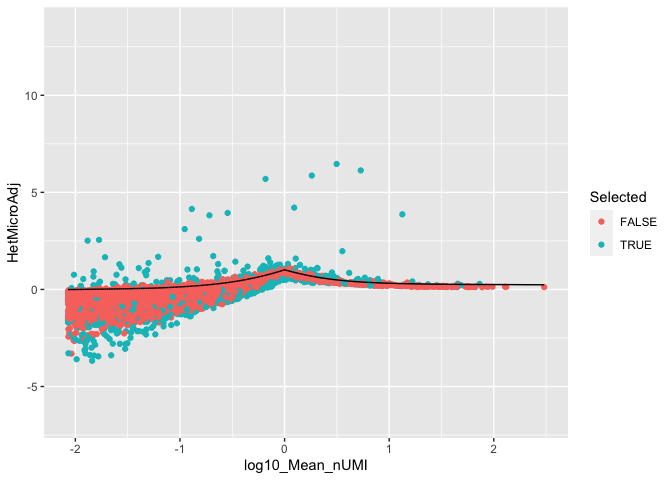
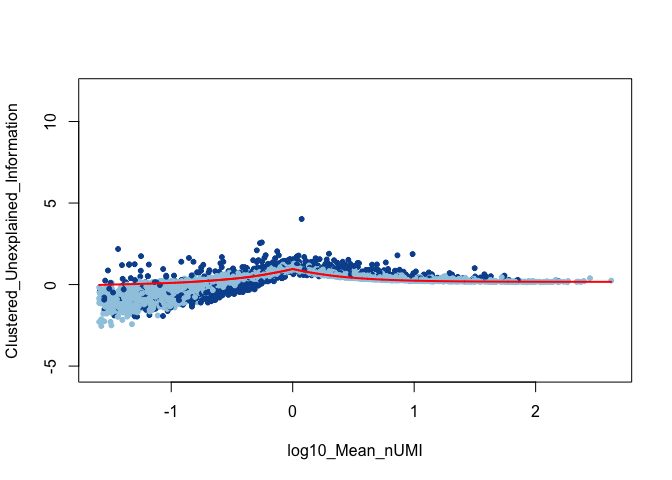
Update README

diff --git a/README.md b/README.md
@@ -9,7 +9,7 @@
 
 Package for the quantification of the information content of single-cell
 RNA-sequencing data-sets, and how much of this information has been
-captured by clustering. Based on the quantification of information in
+explained by clustering. Based on the quantification of information in
 heterogeneity (infohet).
 
 ## Installation
@@ -26,8 +26,7 @@ General setup. Load in Data and filter low expressing genes (less than
 
 ``` r
 library(infohet)
-library(ggplot2)
-library(Seurat)
+library(RColorBrewer)
 
 load("../Data/Tian2018/CountsMatrix")
 
@@ -42,7 +41,9 @@ if(any(Total < minTotal)){
 ```
 
 Visualise gene-wise information - the amount of information gain from
-knowing the cellular allocation of transcripts for each gene.
+knowing the cellular allocation of transcripts for each gene. This
+corresponds to the information left unexplained by assuming each gene is
+homogenous in expression.
 
 Homogeneity, adjusted for the difference in total count depths of cells,
 is simulated to provide a null baseline of information.
@@ -58,20 +59,65 @@ N <- CountsMatrix@Dim[2]
 Mean_nUMI <- Total / N
 
 HetDataFrame <- data.frame(log10(Mean_nUMI), Het, nullHet)
-colnames(HetDataFrame) <- c("log10_Mean_nUMI", "Information", "Null_Model")
+colnames(HetDataFrame) <- c("log10_Mean_nUMI", "Unexplained_Information", "Null_Model")
 
-ggplot(HetDataFrame, aes(x = log10_Mean_nUMI, y = Information, colour = HighlyInformative)) + geom_point() +
-  geom_line(aes(y = Null_Model), colour = "black") + 
-  ylim(0, log2(N))
-#> Warning: Removed 48 row(s) containing missing values (geom_path).
+ColourSelected <- brewer.pal(9, "Blues")[8]
+ColourNotSelected <- brewer.pal(9, "Blues")[4]
+Order <- order(HetDataFrame$log10_Mean_nUMI)
+
+with(HetDataFrame, plot(log10_Mean_nUMI, 
+                        Unexplained_Information,
+                        col = ifelse(HighlyInformative, ColourSelected, ColourNotSelected),
+                        ylim = c(0, log2(N)),
+                        pch = 20)
+     )
+lines(HetDataFrame$log10_Mean_nUMI[Order], HetDataFrame$Null_Model[Order], col = "red", lwd = 2)
 ```
 
-<img src="man/figures/README-Het-1.png" width="100%" />
+<img src="man/figures/README-unnamed-chunk-3-1.png" width="100%" />
 
-Generate set of clusters, e.g. from Seurat pipeline, ranging over
-hyperparameter of interest, e.g. resolution.
+The example Tian dataset has a known cluster structure. The amount of
+information left unexplained by assuming each gene is homogenously
+expressed within each cluster is found.
 
 ``` r
+load("../Data/Tian2018/Identity")
+
+Clustered_Unexplained_Information <- getHetMicro(CountsMatrix, Identity, subtractSparsity = T)
+HetDataFrame <- cbind(HetDataFrame, Clustered_Unexplained_Information)
+
+with(HetDataFrame, plot(log10_Mean_nUMI, 
+                        Clustered_Unexplained_Information,
+                        col = ifelse(HighlyInformative, ColourSelected, ColourNotSelected),
+                        ylim = c(-log2(N/100), log2(N)),
+                        pch = 20)
+     )
+lines(HetDataFrame$log10_Mean_nUMI[Order], HetDataFrame$Null_Model[Order], col = "red", lwd = 2)
+```
+
+<img src="man/figures/README-unnamed-chunk-4-1.png" width="100%" />
+
+Information is additive between independent sources. Taking each gene as
+independent, the total information left unexplained in the transcriptome
+can be found.
+
+The goal of clustering is to identify a set of homogenous
+subpopulations, i.e. cell types. Therefore, the chosen clustering should
+minimise the amount of information left unexplained by the assumption of
+cluster homogeneity.
+
+All else being equal, information will never decrease with increasing
+cluster number. There is therefore a trade-off - the optimal clustering
+is that which leaves the least information unexplained in the fewest
+clusters. This can be assessed by an elbow analysis, shown below using
+the Seurat (v3) clustering pipeline.
+
+The chosen clustering can be reapplied to identify which genes are well
+explained by the clustering (see above figure).
+
+``` r
+library(Seurat)
+
 SeuObj <- Seurat::CreateSeuratObject(CountsMatrix)
 SeuObj <- Seurat::SCTransform(SeuObj)
 
@@ -80,7 +126,7 @@ SeuObj <- RunPCA(SeuObj, verbose = FALSE)
 SeuObj <- FindNeighbors(SeuObj, dims = 1:30, verbose = FALSE)
 
 NumClusters <- c()
-InformationExplained <- c()
+InformationUnexplained <- c()
 Resolutions <- c(seq(0.0001, 0.001, 0.0001), seq(0.002, 0.01, 0.001), seq(0.02, 0.2, 0.01), seq(0.3, 1, 0.1))
 
 for(i in 1:length(Resolutions)){
@@ -89,34 +135,17 @@ for(i in 1:length(Resolutions)){
   
   Identity <- Idents(SeuObj)
   
-  HetMacro <- getHetMacro(CountsMatrix, Identity)
+  HetMicro <- getHetMicro(CountsMatrix, Identity)
   
   NumClusters[i] <- length(levels(Identity))
-  InformationExplained[i] <- sum(HetMacro) 
+  InformationUnexplained[i] <- sum(HetMicro) 
 }
 
-Elbow <- cbind(Resolutions, NumClusters, InformationExplained)
+Elbow <- cbind(Resolutions, NumClusters, InformationUnexplained)
 ```
 
 Elbow Plot of total information explained by clustering against
 resolution hyperparameter and cluster
 number
 
-<img src="man/figures/README-Elbow plot-1.png" width="100%" /><img src="man/figures/README-Elbow plot-2.png" width="100%" />
-
-Gene-wise information left unexplained by chosen
-clustering
-
-``` r
-HetMicro <- getHetMicro(CountsMatrix, SeuObj$SCT_snn_res.0.01, subtractSparsity = T)
-
-HighlyUnexplained <- HetMicro > nullHet + infoThreshold
-
-HetDataFrame <- cbind(HetDataFrame, HetMicro)
-ggplot(HetDataFrame, aes(x = log10_Mean_nUMI, y = HetMicro, colour = HighlyUnexplained)) + geom_point() +
-  geom_line(aes(y = Null_Model), colour = "black") + 
-  ylim(-log2(minTotal), log2(N)) +
-  ylab("Information Unexplained")
-```
-
-<img src="man/figures/README-Unexplained-1.png" width="100%" />
+<img src="man/figures/README-unnamed-chunk-7-1.png" width="100%" /><img src="man/figures/README-unnamed-chunk-7-2.png" width="100%" />
